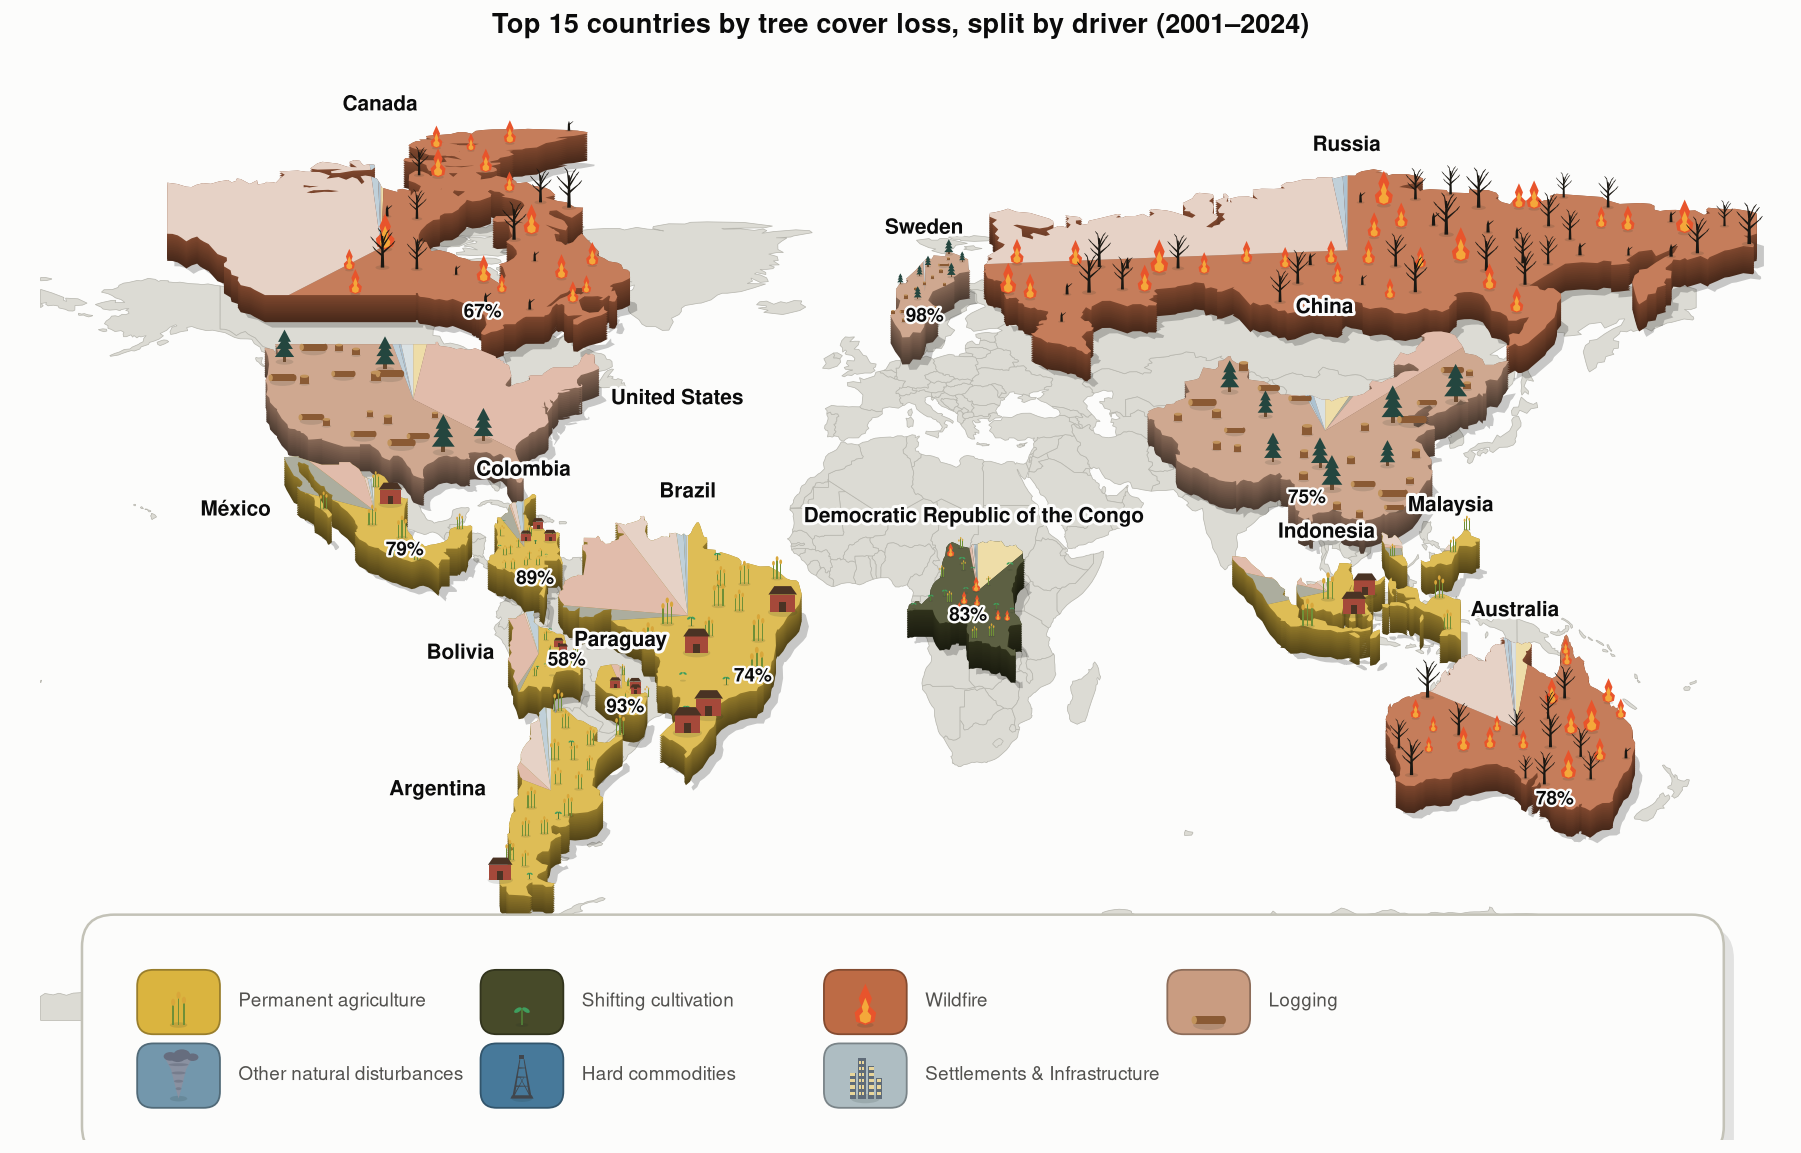
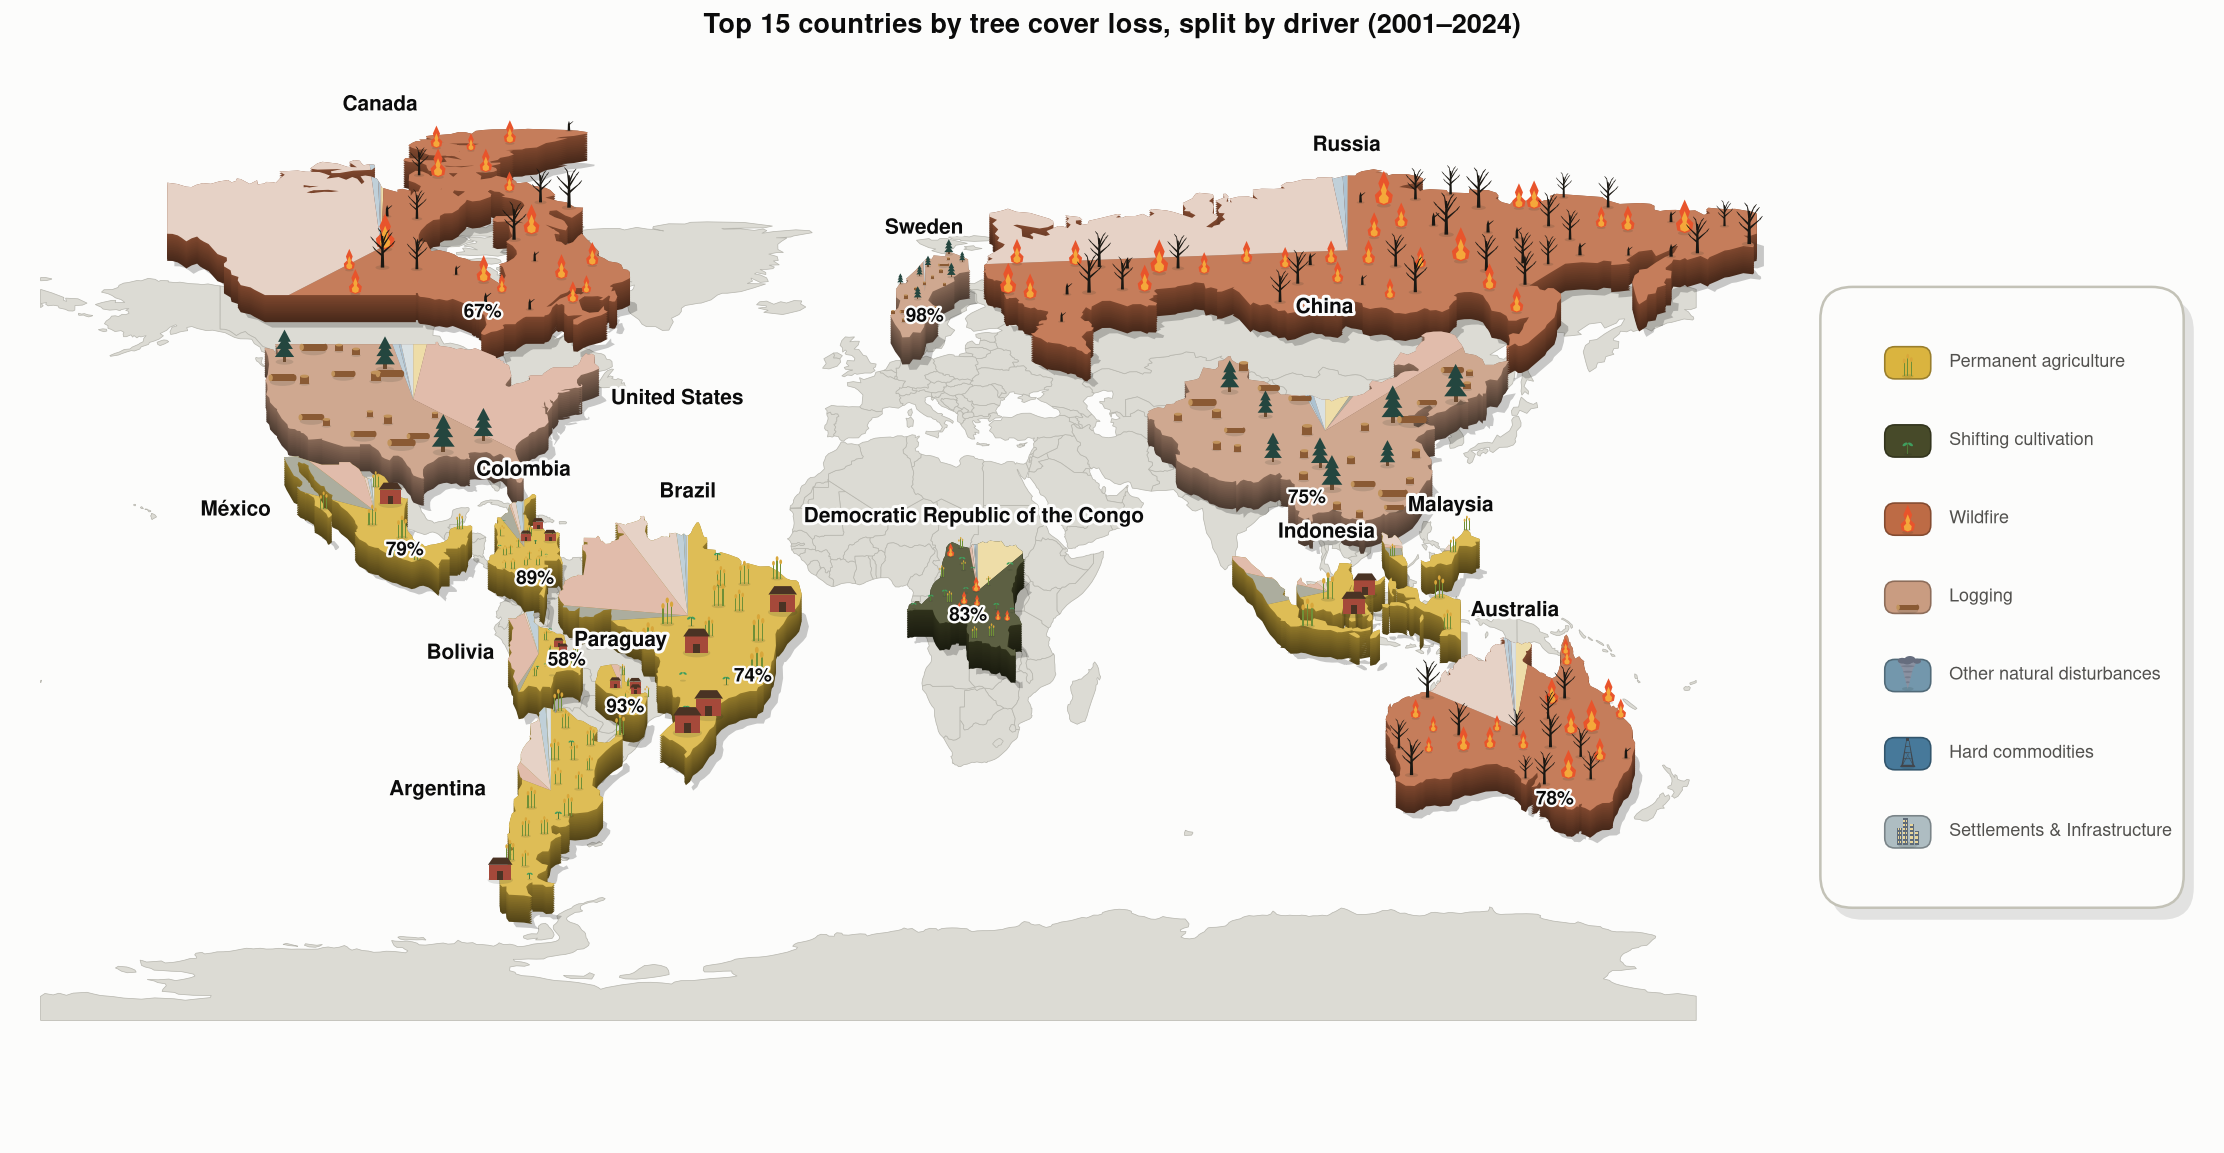
Move map legend to a compact vertical key on the right side
Smaller color-swatch chips (about twice the label font height) stacked
one per row down the right margin, so the key sits along the side of the
page and no longer overlaps Antarctica at the bottom. The view widens to
give the panel a dedicated, map-clear column.

Claude-Session: https://claude.ai/code/session_014ABtb7Mih3p4BoLy6zAVRP

diff --git a/src/forest_viz/maps.py b/src/forest_viz/maps.py
@@ -321,12 +321,13 @@ def plot_top_countries_map(
         geometry = load_country_geometry(geometry)
 
     if ax is None:
-        _, ax = plt.subplots(figsize=(16.5, 9))
+        _, ax = plt.subplots(figsize=(18.5, 9))
     fig = ax.figure
 
-    # View window with generous north/south whitespace; a surface-colored
-    # backdrop spans it so the margin survives a tight-bbox save.
-    xmin, xmax, ymin, ymax = -186, 200, -116, 120
+    # View window with generous whitespace (extra room on the right for a
+    # vertical legend); a surface-colored backdrop spans it so the margin
+    # survives a tight-bbox save.
+    xmin, xmax, ymin, ymax = -186, 292, -116, 120
     ax.add_patch(Rectangle((xmin, ymin), xmax - xmin, ymax - ymin,
                            facecolor=chrome["surface"], edgecolor="none", zorder=0))
 
@@ -457,20 +458,22 @@ def plot_top_countries_map(
     ax.set_title(f"Top {n} countries by tree cover loss, split by driver{rng}",
                  color=chrome["text"], fontweight="bold", fontsize=15)
 
-    # Legend: each driver's color swatch with its motif on top, plus its name.
-    # The whole thing sits in a rounded, bordered panel in the bottom margin so
-    # it reads as one clearly bounded key (all drivers, primary or not).
-    cols = 4
-    col_x = np.linspace(-150, 74, cols)   # chip centers
-    row_y = (-86, -102)                    # chip centers (two rows)
-    chip_w, chip_h = 18.0, 14.0
+    # Legend: a compact vertical key down the right side (clear of the map).
+    # Each driver's small color swatch (its identity color) carries the motif
+    # on top, with the name beside it; the whole key sits in a rounded,
+    # bordered panel (all drivers, primary or not).
+    lx = 226.0                          # chip center x
+    chip_w, chip_h = 10.0, 7.0          # small: ~2x the label font height
+    fs = 10.0
+    n_rows = len(palette.DRIVER_ORDER)
+    row_step = 17.0
+    cy0 = (ymax + ymin) / 2 + (n_rows - 1) / 2 * row_step   # top row, centered
 
-    # Panel bounds: pad around the chip grid and the widest label.
-    pad_x, pad_top, pad_bot = 12.0, 12.0, 11.0
-    px0 = col_x[0] - chip_w / 2 - pad_x
-    px1 = xmax - 14                              # right margin inside the view
-    py1 = row_y[0] + chip_h / 2 + pad_top
-    py0 = row_y[1] - chip_h / 2 - pad_bot
+    pad_x, pad_y = 14.0, 13.0
+    px0 = lx - chip_w / 2 - pad_x
+    px1 = xmax - 6
+    py1 = cy0 + chip_h / 2 + pad_y
+    py0 = cy0 - (n_rows - 1) * row_step - chip_h / 2 - pad_y
 
     # Soft drop shadow, then the panel itself.
     ax.add_patch(FancyBboxPatch(
@@ -483,16 +486,17 @@ def plot_top_countries_map(
         edgecolor=chrome["baseline"], linewidth=1.4, zorder=5.8))
 
     for i, d in enumerate(palette.DRIVER_ORDER):
-        x, y = col_x[i % cols], row_y[i // cols]
-        # Color swatch (the driver's identity color) as a rounded chip.
+        y = cy0 - i * row_step
+        # Color swatch (the driver's identity color) as a small rounded chip.
         ax.add_patch(FancyBboxPatch(
-            (x - chip_w / 2, y - chip_h / 2), chip_w, chip_h,
-            boxstyle="round,pad=0,rounding_size=3.5", facecolor=theme[d],
-            edgecolor=_darken(theme[d], 0.7), linewidth=1.0, zorder=6))
+            (lx - chip_w / 2, y - chip_h / 2), chip_w, chip_h,
+            boxstyle="round,pad=0,rounding_size=2.2", facecolor=theme[d],
+            edgecolor=_darken(theme[d], 0.7), linewidth=0.9, zorder=6))
         key = _LEGEND_MOTIF.get(d)
         if key:
-            _motifs.MOTIF[key](ax, x, y - 5.0, 9.0, ax.transData, 6.2)
-        ax.text(x + chip_w / 2 + 4, y, d, ha="left", va="center", fontsize=10.5,
+            _motifs.MOTIF[key](ax, lx, y - chip_h / 2 + 0.6, chip_h - 1.0,
+                               ax.transData, 6.2)
+        ax.text(lx + chip_w / 2 + 4, y, d, ha="left", va="center", fontsize=fs,
                 color=chrome["text_secondary"], zorder=6.3)
     return ax
 
